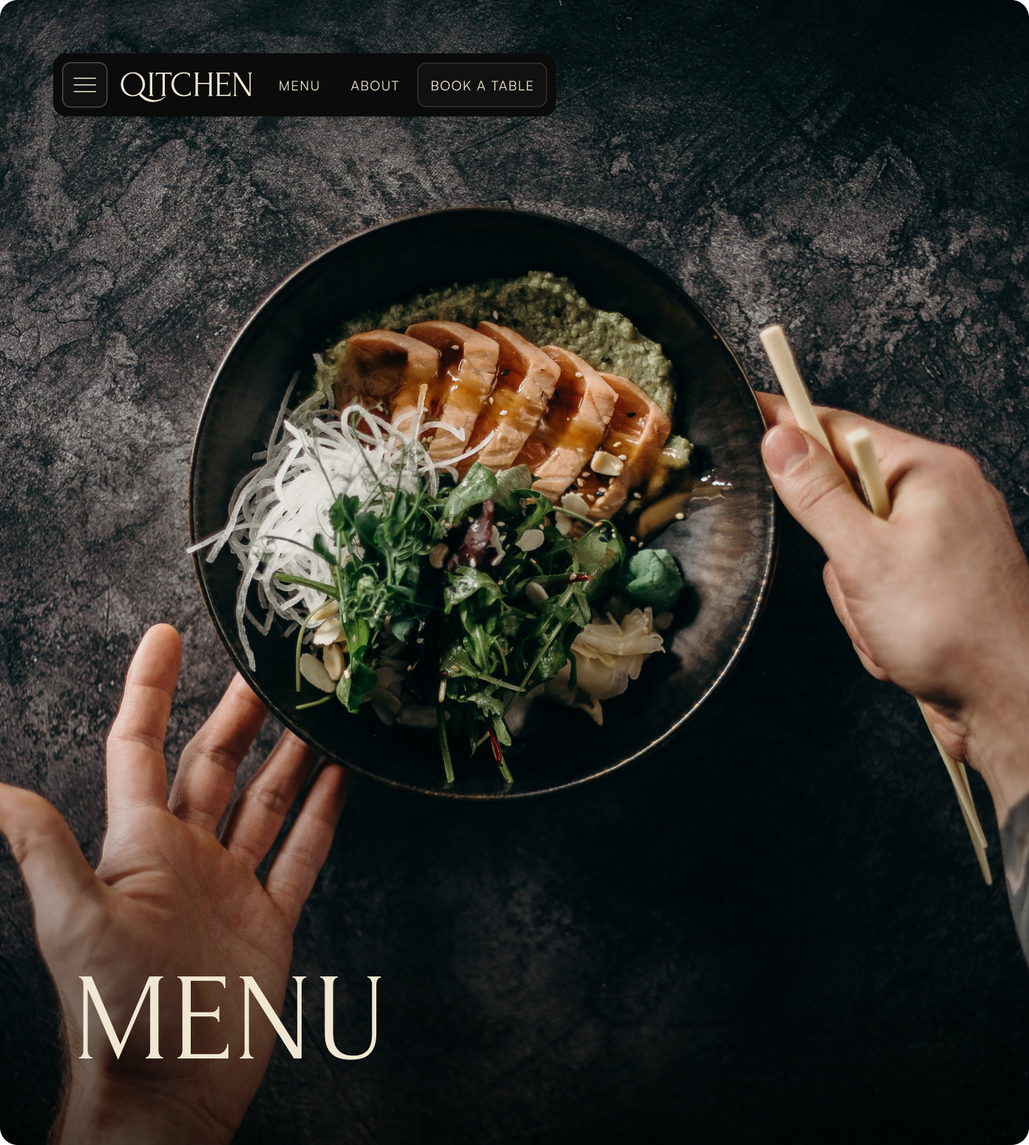
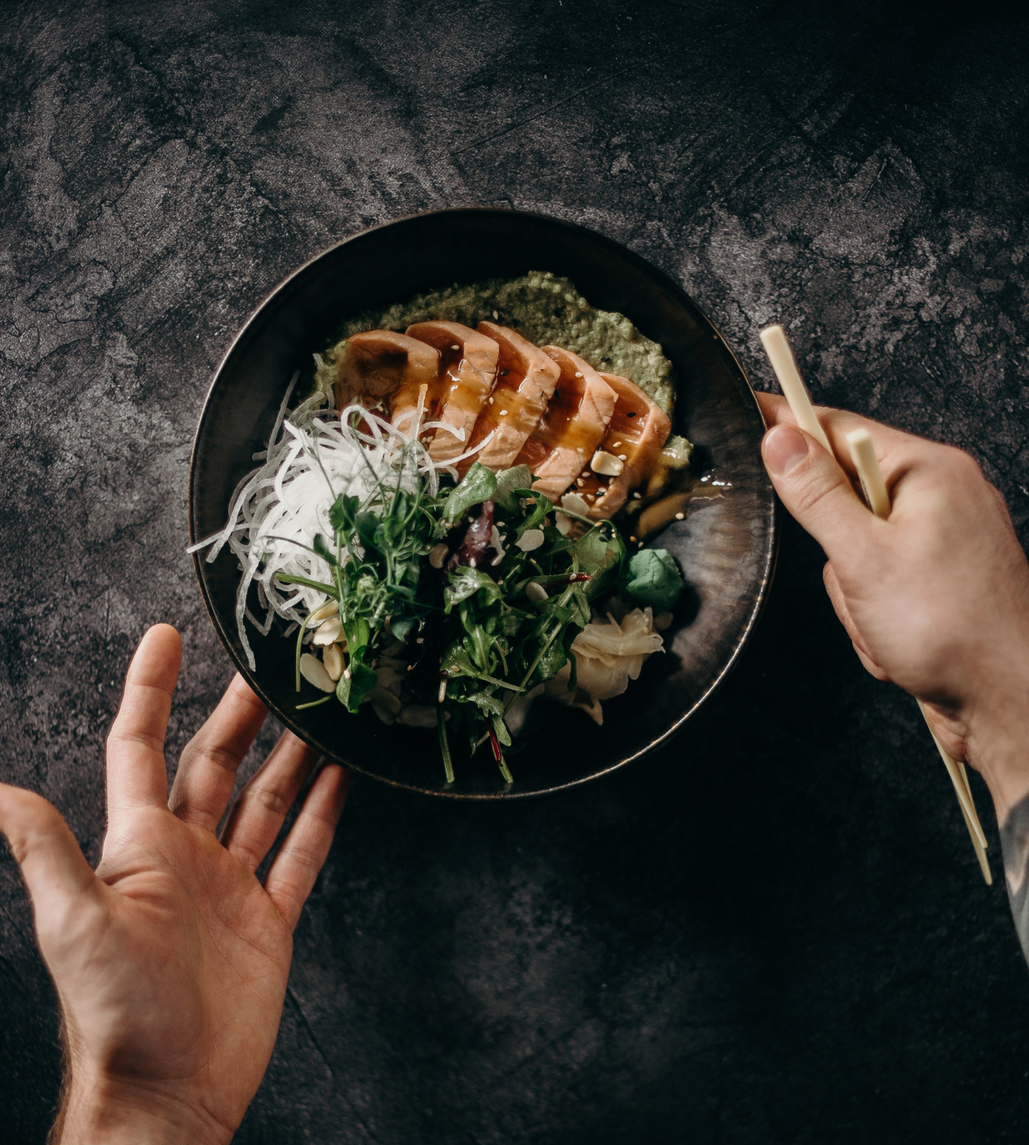
feat: add header layout and update styles for home and menu pages

diff --git a/css/main.css b/css/main.css
@@ -1,1 +1,1 @@
-*{padding:0;margin:0;box-sizing:inherit}html{font-size:62.5%;overflow-x:hidden !important}body{font-family:"Satoshi",sans-serif;box-sizing:border-box;background-color:#0a0b0a;color:rgba(245,242,234,.7);font-weight:400;line-height:1.6;margin:2.4rem;overflow-x:hidden !important}@media only screen and (max-width: 37.5em){body{margin:1.4rem}}@font-face{font-family:"Satoshi",sans-serif;src:url("/assets/fonts/satoshi-variable.ttf")}@font-face{font-family:"Forum",serif;src:url("/assets/fonts/forum-regular.ttf")}.heading-primary{font-family:"Forum",serif;font-size:14rem;line-height:1;letter-spacing:3px;color:#efefd2;text-transform:uppercase;font-weight:lighter;animation:moveinright all .4s;-webkit-animation:moveinright all .4s}@media only screen and (max-width: 75em){.heading-primary{font-size:8rem;position:absolute;bottom:10%}}@media only screen and (max-width: 56.25em){.heading-primary{font-size:6rem}}@media only screen and (max-width: 37.5em){.heading-primary{font-size:4rem}}@media only screen and (max-width: 31.25em){.heading-primary{font-size:3.5rem}}.body-heading{font-family:"Forum",serif;font-size:1.6rem;font-weight:100;line-height:1;color:#efefd2;text-transform:uppercase;font-weight:lighter}@media only screen and (max-width: 75em){.body-heading{font-size:1rem}}.btn{border:none;text-decoration:none;cursor:pointer}.btn:focus{outline:none}.btn-primary{font-size:1.2rem;text-transform:uppercase;color:#efefd2;padding:1.2rem;font-weight:300;background-color:#111;border:1px solid #32312e;border-radius:8px}@media only screen and (max-width: 37.5em){.btn-primary{font-size:1rem}}.btn-icon{height:4rem;width:4rem;border-radius:50%;background-color:#111;border:1px solid #32312e;display:flex;justify-content:center;align-items:center}@media only screen and (max-width: 31.25em){.btn-icon{height:2rem;width:2rem}}.btn-icon.sm{height:3.2rem;width:3.2rem}.btn-icon svg{font-size:1.8rem}@media only screen and (max-width: 31.25em){.btn-icon svg{font-size:1.4rem}}.navigation-dk{position:absolute;top:7rem;left:7rem;display:flex;justify-content:center;align-items:center;gap:1.2rem;padding:.8rem;border-radius:1.2rem;background-color:#0a0b0a;position:fixed;z-index:10}@media only screen and (max-width: 37.5em){.navigation-dk{display:none}}@media only screen and (max-width: 75em){.navigation-dk{top:5rem;left:5rem}}@media only screen and (max-width: 31.25em){.navigation-dk{top:4rem;left:4rem}}.navigation-dk .logo-wrapper{display:flex;gap:1rem;align-items:center}.navigation-dk .open{display:flex;padding:.7rem;font-size:2.2rem;border-radius:9px;align-items:center;border:1px solid rgba(239,231,210,.1490196078);-webkit-border-radius:9px;-moz-border-radius:9px;-ms-border-radius:9px;-o-border-radius:9px}.navigation-dk .logo{width:12rem}@media only screen and (max-width: 56.25em){.navigation-dk .logo{width:8rem}}.navigation-dk .logo img{width:100%;height:auto;-o-object-fit:contain;object-fit:contain}.navigation-dk .nav-links{display:flex;align-items:center;gap:.5rem}.navigation-dk .nav-links li{list-style:none}.navigation-dk .nav-links li .nav-item{text-decoration:none;font-size:1.2rem;text-transform:uppercase;color:#efefd2;padding:1.2rem;font-weight:300}@media only screen and (max-width: 37.5em){.navigation-dk .nav-links li .nav-item{font-size:1rem}}@media only screen and (max-width: 31.25em){.navigation-dk .nav-links li .nav-item{padding:.5rem}}.navigation-pb{display:none}@media only screen and (max-width: 37.5em){.navigation-pb{display:flex;position:relative;z-index:4000}}.navigation-pb .logo-wrapper{display:flex;gap:1rem;align-items:center;margin:1.2rem 0}@media only screen and (max-width: 37.5em){.navigation-pb .logo-wrapper{z-index:3000}.navigation-pb .logo-wrapper .navigation-checkbox:checked~.logo-wrapper{position:fixed}}.navigation-pb .logo-wrapper .logo{width:10rem}@media only screen and (max-width: 31.25em){.navigation-pb .logo-wrapper .logo{width:8rem}}.navigation-pb .logo-wrapper .logo img{width:100%;height:100%}.navigation-pb .navigation-checkbox{display:none}.navigation-pb .navigation-checkbox:checked~.navigation-main{opacity:1;width:100%;position:fixed;background-color:#0a0b0a;transition:all .2s;-webkit-transition:all .2s;-moz-transition:all .2s;-ms-transition:all .2s;-o-transition:all .2s}.navigation-pb .navigation-button{display:flex;align-items:center;padding:.7rem;border-radius:3px;border:1px solid rgba(239,231,210,.1490196078);-webkit-border-radius:3px;-moz-border-radius:3px;-ms-border-radius:3px;-o-border-radius:3px}.navigation-pb .navigation-button .close{display:none;font-size:3rem}.navigation-pb .navigation-button .open{display:flex;font-size:3rem}.navigation-pb .navigation-button .navigation-checkbox:checked~.logo-wrapper .navigation-button .open{display:none}.navigation-pb .navigation-button .navigation-checkbox:checked~.logo-wrapper .navigation-button .close{display:flex}.navigation-pb .navigation-main{position:absolute;top:0;left:0;height:100vh;z-index:1500;width:0;opacity:0;transition:all .4s,opacity .4s cubic-bezier(0.86, 0, 0.07, 1);-webkit-transition:all .4s,opacity .4s cubic-bezier(0.86, 0, 0.07, 1);-moz-transition:all .4s,opacity .4s cubic-bezier(0.86, 0, 0.07, 1);-ms-transition:all .4s,opacity .4s cubic-bezier(0.86, 0, 0.07, 1);-o-transition:all .4s,opacity .4s cubic-bezier(0.86, 0, 0.07, 1)}@media only screen and (max-width: 37.5em){.navigation-pb .navigation-main .nav-links{position:absolute;top:50%;left:50%;transform:translate(-50%, -50%);display:flex;flex-direction:column;gap:1rem;transition:all .4s,opacity .4s cubic-bezier(0.86, 0, 0.07, 1);-webkit-transition:all .4s,opacity .4s cubic-bezier(0.86, 0, 0.07, 1);-moz-transition:all .4s,opacity .4s cubic-bezier(0.86, 0, 0.07, 1);-ms-transition:all .4s,opacity .4s cubic-bezier(0.86, 0, 0.07, 1);-o-transition:all .4s,opacity .4s cubic-bezier(0.86, 0, 0.07, 1)}}.navigation-pb .navigation-main ul.nav-links li{display:none}@media only screen and (max-width: 37.5em){.navigation-pb .navigation-main ul.nav-links li{display:flex;flex-direction:column;text-align:center;list-style:none;text-decoration:none;gap:2rem}}.navigation-pb .nav-item:link,.navigation-pb .nav-item:visited{display:inline-block;font-family:"Satoshi",sans-serif;font-size:3rem;padding:.8rem;font-weight:300;letter-spacing:1px;color:inherit;font-weight:lighter;text-decoration:none;text-transform:uppercase;cursor:pointer;background-image:linear-gradient(120deg, transparent 0%, transparent 50%, #fff 50%);border-radius:4px;background-size:220%;transition:all .4s;-webkit-transition:all .4s;-moz-transition:all .4s;-ms-transition:all .4s;-o-transition:all .4s;-webkit-border-radius:4px;-moz-border-radius:4px;-ms-border-radius:4px;-o-border-radius:4px}.navigation-pb .nav-item:hover,.navigation-pb .nav-item:active{background-position:100%;color:#0a0b0a;transform:translateX(1rem);-webkit-transform:translateX(1rem);-moz-transform:translateX(1rem);-ms-transform:translateX(1rem);-o-transform:translateX(1rem)}.main{display:flex;gap:1.6rem;height:calc(100vh - 4.8rem)}@media only screen and (max-width: 75em){.main{display:flex;flex-direction:column;gap:1.6rem}}.main .header{background-image:url("/assets/images/hero.jpg");background-size:cover;background-position:center;border-radius:1.6rem;flex:4;display:flex;align-items:stretch;justify-content:flex-end;flex-direction:column;position:relative}.main .header .textbox{padding:8rem;background-image:linear-gradient(to bottom, rgba(0, 0, 0, 0), rgba(0, 0, 0, 0.6));border-radius:inherit}@media only screen and (max-width: 75em){.main .header .textbox{height:96vh;padding:3rem}}@media only screen and (max-width: 37.5em){.main .header .textbox{height:90vh}}@media only screen and (max-width: 31.25em){.main .header .textbox{height:85vh;padding:2rem}}@media only screen and (max-width: 25em){.main .header .textbox{height:80vh;padding:2rem}}@media only screen and (max-width: 21.87em){.main .header .textbox{height:80vh;padding:2rem}}.main .header .cta{position:absolute;right:0;border-top-left-radius:1.6rem;background-color:#0a0b0a}.main .header .cta>div{position:relative;display:flex;align-items:center;padding:2.5rem;gap:1rem}@media only screen and (max-width: 37.5em){.main .header .cta>div{padding:1.5rem}}@media only screen and (max-width: 37.5em){.main .header .cta>div{padding:1.5rem}}.main .header .cta .radius{position:absolute}.main .header .cta .radius.top{top:0;right:0;transform:translateY(-100%)}.main .header .cta .radius.bottom{bottom:0;left:0;transform:translateX(-100%)}.main .features{flex:1;display:flex;flex-direction:column;font-family:"Forum",serif;gap:1.6rem}@media only screen and (max-width: 56.25em){.main .features{height:100%}}.main .features .card{border-radius:2rem;overflow:hidden;position:relative;height:33.3333333333%}@media only screen and (max-width: 56.25em){.main .features .card{height:40rem;width:100%;-o-object-fit:cover;object-fit:cover}}.main .features .card .comp{width:100%}.main .features .card .comp img{height:100%;width:100%;display:block;z-index:-1}@media only screen and (max-width: 75em){.main .features .card .comp img{height:50rem;-o-object-fit:cover;object-fit:cover;width:100%}}@media only screen and (max-width: 37.5em){.main .features .card .comp img{height:40rem;-o-object-fit:cover;object-fit:cover;width:100%}}.main .features .card .tab{position:absolute;bottom:0;right:0;z-index:99}.main .features .card .tab .titleBtn{font-family:"Forum",serif;text-transform:uppercase;padding-top:1.2rem;padding-left:2.4rem;border-radius:2.4rem 0 0 0;background-color:#0a0b0a;display:flex;justify-content:space-between;align-items:center;gap:8px;line-height:1.3;letter-spacing:1px;color:#efefd2;font-size:1.6rem;font-weight:100;font-weight:lighter;cursor:pointer}@media only screen and (max-width: 1200px){.main .main{height:calc(100vh - 4.8rem)}}.main{display:flex;gap:1.6rem;height:calc(100vh - 4.8rem)}@media only screen and (max-width: 75em){.main{display:flex;flex-direction:column;gap:1.6rem}}.main .menu_header{background-image:url("/assets/images/hero-2.jpg");background-size:cover;background-position:center;border-radius:1.6rem;flex:1;display:flex;align-items:stretch;justify-content:flex-end;flex-direction:column;position:relative}.main .menu_header .textbox{padding:8rem;background-image:linear-gradient(to bottom, rgba(0, 0, 0, 0), rgba(0, 0, 0, 0.6));border-radius:inherit}
+*{padding:0;margin:0;box-sizing:inherit}html{font-size:62.5%;overflow-x:hidden !important}body{font-family:"Satoshi",sans-serif;box-sizing:border-box;background-color:#0a0b0a;color:rgba(245,242,234,.7);font-weight:400;line-height:1.6;margin:2.4rem;overflow-x:hidden !important}@media only screen and (max-width: 37.5em){body{margin:1.4rem}}@font-face{font-family:"Satoshi",sans-serif;src:url("/assets/fonts/satoshi-variable.ttf")}@font-face{font-family:"Forum",serif;src:url("/assets/fonts/forum-regular.ttf")}.heading-primary{font-family:"Forum",serif;font-size:14rem;line-height:1;letter-spacing:3px;color:#efefd2;text-transform:uppercase;font-weight:lighter}@media only screen and (max-width: 75em){.heading-primary{font-size:8rem;position:absolute;bottom:10%}}@media only screen and (max-width: 56.25em){.heading-primary{font-size:6rem}}@media only screen and (max-width: 37.5em){.heading-primary{font-size:4rem}}@media only screen and (max-width: 31.25em){.heading-primary{font-size:3.5rem}}.heading-secondary{line-height:1;letter-spacing:3px;color:#efefd2;text-transform:uppercase;font-weight:lighter;font-family:"Forum",serif}.small{font-size:3.2rem}.body-heading{font-family:"Forum",serif;font-size:1.6rem;font-weight:100;line-height:1;color:#efefd2;text-transform:uppercase;font-weight:lighter}@media only screen and (max-width: 75em){.body-heading{font-size:1rem}}.btn{border:none;text-decoration:none;cursor:pointer}.btn:focus{outline:none}.btn-primary{font-size:1.2rem;text-transform:uppercase;color:#efefd2;padding:1.2rem;font-weight:300;background-color:#111;border:1px solid #32312e;border-radius:8px}@media only screen and (max-width: 37.5em){.btn-primary{font-size:1rem}}.btn-icon{height:4rem;width:4rem;border-radius:50%;background-color:#111;border:1px solid #32312e;display:flex;justify-content:center;align-items:center}@media only screen and (max-width: 31.25em){.btn-icon{height:2rem;width:2rem}}.btn-icon.sm{height:3.2rem;width:3.2rem}.btn-icon svg{font-size:1.8rem}@media only screen and (max-width: 31.25em){.btn-icon svg{font-size:1.4rem}}.header{background-size:cover;background-position:center;border-radius:1.6rem;flex:3;display:flex;align-items:stretch;justify-content:flex-end;flex-direction:column;position:relative}.header .textbox{padding:8rem;background-image:linear-gradient(to bottom, rgba(0, 0, 0, 0), rgba(0, 0, 0, 0.6));border-radius:inherit}@media only screen and (max-width: 75em){.header .textbox{height:96vh;padding:3rem}}@media only screen and (max-width: 37.5em){.header .textbox{height:90vh}}@media only screen and (max-width: 31.25em){.header .textbox{height:85vh;padding:2rem}}@media only screen and (max-width: 25em){.header .textbox{height:80vh;padding:2rem}}@media only screen and (max-width: 21.87em){.header .textbox{height:80vh;padding:2rem}}.header .cta{position:absolute;right:0;border-top-left-radius:1.6rem;background-color:#0a0b0a}.header .cta>div{position:relative;display:flex;align-items:center;padding:2.5rem;gap:1rem}@media only screen and (max-width: 37.5em){.header .cta>div{padding:1.5rem}}@media only screen and (max-width: 37.5em){.header .cta>div{padding:1.5rem}}.header .cta .radius{position:absolute}.header .cta .radius.top{top:0;right:0;transform:translateY(-100%)}.header .cta .radius.bottom{bottom:0;left:0;transform:translateX(-100%)}.navigation-dk{position:absolute;top:7rem;left:7rem;display:flex;justify-content:center;align-items:center;gap:1.2rem;padding:.8rem;border-radius:1.2rem;background-color:#0a0b0a;position:fixed;z-index:10}@media only screen and (max-width: 37.5em){.navigation-dk{display:none}}@media only screen and (max-width: 75em){.navigation-dk{top:5rem;left:5rem}}@media only screen and (max-width: 31.25em){.navigation-dk{top:4rem;left:4rem}}.navigation-dk .logo-wrapper{display:flex;gap:1rem;align-items:center}.navigation-dk .open{display:flex;padding:.7rem;font-size:2.2rem;border-radius:9px;align-items:center;border:1px solid rgba(239,231,210,.1490196078);-webkit-border-radius:9px;-moz-border-radius:9px;-ms-border-radius:9px;-o-border-radius:9px}.navigation-dk .logo{width:12rem}@media only screen and (max-width: 56.25em){.navigation-dk .logo{width:8rem}}.navigation-dk .logo img{width:100%;height:auto;-o-object-fit:contain;object-fit:contain}.navigation-dk .nav-links{display:flex;align-items:center;gap:.5rem}.navigation-dk .nav-links li{list-style:none}.navigation-dk .nav-links li .nav-item{text-decoration:none;font-size:1.2rem;text-transform:uppercase;color:#efefd2;padding:1.2rem;font-weight:300}@media only screen and (max-width: 37.5em){.navigation-dk .nav-links li .nav-item{font-size:1rem}}@media only screen and (max-width: 31.25em){.navigation-dk .nav-links li .nav-item{padding:.5rem}}.navigation-pb{display:none}@media only screen and (max-width: 37.5em){.navigation-pb{display:flex;position:relative;z-index:4000}}.navigation-pb .logo-wrapper{display:flex;gap:1rem;align-items:center;margin:1.2rem 0}@media only screen and (max-width: 37.5em){.navigation-pb .logo-wrapper{z-index:3000}.navigation-pb .logo-wrapper .navigation-checkbox:checked~.logo-wrapper{position:fixed}}.navigation-pb .logo-wrapper .logo{width:10rem}@media only screen and (max-width: 31.25em){.navigation-pb .logo-wrapper .logo{width:8rem}}.navigation-pb .logo-wrapper .logo img{width:100%;height:100%}.navigation-pb .navigation-checkbox{display:none}.navigation-pb .navigation-checkbox:checked~.navigation-main{opacity:1;width:100%;position:fixed;background-color:#0a0b0a;transition:all .2s;-webkit-transition:all .2s;-moz-transition:all .2s;-ms-transition:all .2s;-o-transition:all .2s}.navigation-pb .navigation-button{display:flex;align-items:center;padding:.7rem;border-radius:3px;border:1px solid rgba(239,231,210,.1490196078);-webkit-border-radius:3px;-moz-border-radius:3px;-ms-border-radius:3px;-o-border-radius:3px}.navigation-pb .navigation-button .close{display:none;font-size:3rem}.navigation-pb .navigation-button .open{display:flex;font-size:3rem}.navigation-pb .navigation-button .navigation-checkbox:checked~.logo-wrapper .navigation-button .open{display:none}.navigation-pb .navigation-button .navigation-checkbox:checked~.logo-wrapper .navigation-button .close{display:flex}.navigation-pb .navigation-main{position:absolute;top:0;left:0;height:100vh;z-index:1500;width:0;opacity:0;transition:all .4s,opacity .4s cubic-bezier(0.86, 0, 0.07, 1);-webkit-transition:all .4s,opacity .4s cubic-bezier(0.86, 0, 0.07, 1);-moz-transition:all .4s,opacity .4s cubic-bezier(0.86, 0, 0.07, 1);-ms-transition:all .4s,opacity .4s cubic-bezier(0.86, 0, 0.07, 1);-o-transition:all .4s,opacity .4s cubic-bezier(0.86, 0, 0.07, 1)}@media only screen and (max-width: 37.5em){.navigation-pb .navigation-main .nav-links{position:absolute;top:50%;left:50%;transform:translate(-50%, -50%);display:flex;flex-direction:column;gap:1rem;transition:all .4s,opacity .4s cubic-bezier(0.86, 0, 0.07, 1);-webkit-transition:all .4s,opacity .4s cubic-bezier(0.86, 0, 0.07, 1);-moz-transition:all .4s,opacity .4s cubic-bezier(0.86, 0, 0.07, 1);-ms-transition:all .4s,opacity .4s cubic-bezier(0.86, 0, 0.07, 1);-o-transition:all .4s,opacity .4s cubic-bezier(0.86, 0, 0.07, 1)}}.navigation-pb .navigation-main ul.nav-links li{display:none}@media only screen and (max-width: 37.5em){.navigation-pb .navigation-main ul.nav-links li{display:flex;flex-direction:column;text-align:center;list-style:none;text-decoration:none;gap:2rem}}.navigation-pb .nav-item:link,.navigation-pb .nav-item:visited{display:inline-block;font-family:"Satoshi",sans-serif;font-size:3rem;padding:.8rem;font-weight:300;letter-spacing:1px;color:inherit;font-weight:lighter;text-decoration:none;text-transform:uppercase;cursor:pointer;background-image:linear-gradient(120deg, transparent 0%, transparent 50%, #fff 50%);border-radius:4px;background-size:220%;transition:all .4s;-webkit-transition:all .4s;-moz-transition:all .4s;-ms-transition:all .4s;-o-transition:all .4s;-webkit-border-radius:4px;-moz-border-radius:4px;-ms-border-radius:4px;-o-border-radius:4px}.navigation-pb .nav-item:hover,.navigation-pb .nav-item:active{background-position:100%;color:#0a0b0a;transform:translateX(1rem);-webkit-transform:translateX(1rem);-moz-transform:translateX(1rem);-ms-transform:translateX(1rem);-o-transform:translateX(1rem)}.main{display:flex;gap:1.6rem;height:calc(100vh - 4.8rem)}.main .header.home{background-image:url("/assets/images/hero.jpg")}@media only screen and (max-width: 75em){.main{display:flex;flex-direction:column;gap:1.6rem}}.main .features{flex:1;display:flex;flex-direction:column;font-family:"Forum",serif;gap:1.6rem}@media only screen and (max-width: 56.25em){.main .features{height:100%}}.main .features .card{border-radius:2rem;overflow:hidden;position:relative;height:33.3333333333%}@media only screen and (max-width: 56.25em){.main .features .card{height:40rem;width:100%;-o-object-fit:cover;object-fit:cover}}.main .features .card .comp{width:100%}.main .features .card .comp img{height:100%;width:100%;display:block;z-index:-1}@media only screen and (max-width: 75em){.main .features .card .comp img{height:50rem;-o-object-fit:cover;object-fit:cover;width:100%}}@media only screen and (max-width: 37.5em){.main .features .card .comp img{height:40rem;-o-object-fit:cover;object-fit:cover;width:100%}}.main .features .card .tab{position:absolute;bottom:0;right:0;z-index:99}.main .features .card .tab .titleBtn{font-family:"Forum",serif;text-transform:uppercase;padding-top:1.2rem;padding-left:2.4rem;border-radius:2.4rem 0 0 0;background-color:#0a0b0a;display:flex;justify-content:space-between;align-items:center;gap:8px;line-height:1.3;letter-spacing:1px;color:#efefd2;font-size:1.6rem;font-weight:100;font-weight:lighter;cursor:pointer}@media only screen and (max-width: 1200px){.main .main{height:calc(100vh - 4.8rem)}}.main{display:flex;gap:1.6rem}.main .header.menu{height:calc(100vh - 4.8rem);background-image:url("/assets/images/hero-2.jpg");flex:1.2}@media only screen and (max-width: 75em){.main{display:flex;flex-direction:column;gap:1.6rem}}.main .menu{flex:1}.main .menu .menu_list ul.menu_btns{display:flex;align-items:center;justify-content:center;margin:2rem 0;gap:.5rem}.main .menu .menu_list ul.menu_btns a{text-decoration:none}.main .menu .menu_list .menu_list-header{display:flex;align-items:center;justify-content:center;margin:6rem 0 3rem 0}

diff --git a/sass/pages/_menu.scss b/sass/pages/_menu.scss
@@ -3,7 +3,12 @@
 .main {
   display: flex;
   gap: 1.6rem;
-  height: calc(100vh - 4.8rem);
+
+  .header.menu {
+    height: calc(100vh - 4.8rem);
+    background-image: url("/assets/images/hero-2.jpg");
+    flex: 1.2;
+  }
 
   @include respond(tab-land) {
     display: -webkit-box;
@@ -13,28 +18,52 @@
     gap: 1.6rem;
   }
 
-  .menu_header {
-    background-image: url("/assets/images/hero-2.jpg");
-    background-size: cover;
-    background-position: center;
-    // background-repeat: no-repeat;
-    border-radius: $border-radius;
+  // header.menu_header {
+  //   background-image: url("/assets/images/hero-2.jpg");
+  //   background-size: cover;
+  //   background-position: center;
+  //   // background-repeat: no-repeat;
+  //   border-radius: $border-radius;
 
+  //   flex: 1;
+  //   display: flex;
+  //   align-items: stretch;
+  //   justify-content: flex-end;
+  //   flex-direction: column;
+  //   position: relative;
+
+  //   //  .textbox {
+  //   //   padding: 8rem;
+  //   //   background-image: linear-gradient(
+  //   //     to bottom,
+  //   //     rgba(0, 0, 0, 0),
+  //   //     rgba(0, 0, 0, 0.6)
+  //   //   );
+  //   //   border-radius: inherit;
+  //   // }
+  // }
+  .menu {
     flex: 1;
-    display: flex;
-    align-items: stretch;
-    justify-content: flex-end;
-    flex-direction: column;
-    position: relative;
 
-    .textbox {
-      padding: 8rem;
-      background-image: linear-gradient(
-        to bottom,
-        rgba(0, 0, 0, 0),
-        rgba(0, 0, 0, 0.6)
-      );
-      border-radius: inherit;
+    .menu_list {
+      ul.menu_btns {
+        display: flex;
+        align-items: center;
+        justify-content: center;
+        margin: 2rem 0;
+        gap: 0.5rem;
+      }
+
+      ul.menu_btns a {
+        text-decoration: none;
+      }
+
+      .menu_list-header {
+        display: flex;
+        align-items: center;
+        justify-content: center;
+        margin: 6rem 0 3rem 0;
+      }
     }
   }
 }

diff --git a/menu.html b/menu.html
@@ -19,6 +19,7 @@
           </figure>
         </a>
       </div>
+
       <ul class="nav-links">
         <li>
           <a href="menu.html" class="nav-item">Menu</a>
@@ -70,23 +71,41 @@
       </div>
     </nav>
 
-    <main>
+    <!-- <main>
       <header class="menu_header">
         <div class="menu_header-container">
-            <div class="textbox">
-                <h1 class="heading-primary">MENU</h1>
-              </div>
-        </div>
-        </div>
-
-  
-
-
-      
-
-        
+          <div class="textbox">
+            <h1 class="heading-primary">MENU</h1>
+          </div>
         </div>
       </header>
+
+      <aside class="aside-container">
+       
+      </aside>
+    </main> -->
+
+    <main class="main">
+      <header class="header menu">
+        <div class="textbox">
+          <h1 class="heading-primary">Menu</h1>
+        </div>
+      </header>
+      <aside class="menu">
+        <div class="menu_list">
+          <ul class="menu_btns">
+            <a href="#" class="btn-primary">maki</a
+            ><a href="#" class="btn-primary">uramaki</a
+            ><a href="#" class="btn-primary">special rolls</a>
+          </ul>
+
+          <div class="menu_list-header">
+            <img src="./assets/icons/spoon-left.svg" alt="spoon-left" />
+            <h2 class="heading-secondary small">maki</h2>
+            <img src="./assets/icons/spoon-right.svg" alt="spoon-right" />
+          </div>
+        </div>
+      </aside>
     </main>
     <script src="https://unpkg.com/aos@2.3.1/dist/aos.js"></script>
     <script>

diff --git a/sass/pages/_home.scss b/sass/pages/_home.scss
@@ -3,64 +3,16 @@
   gap: 1.6rem;
   height: calc(100vh - 4.8rem);
 
+  .header.home {
+    background-image: url("/assets/images/hero.jpg");
+  }
+
   @include respond(tab-land) {
     display: -webkit-box;
     display: -ms-flexbox;
     display: flex;
     flex-direction: column;
     gap: 1.6rem;
-  }
-
-  .header {
-    background-image: url("/assets/images/hero.jpg");
-    background-size: cover;
-    background-position: center;
-    // background-repeat: no-repeat;
-    border-radius: $border-radius;
-
-    flex: 4;
-    display: flex;
-    align-items: stretch;
-    justify-content: flex-end;
-    flex-direction: column;
-    position: relative;
-
-    .textbox {
-      padding: 8rem;
-      background-image: linear-gradient(
-        to bottom,
-        rgba(0, 0, 0, 0),
-        rgba(0, 0, 0, 0.6)
-      );
-      border-radius: inherit;
-
-      @include respond(tab-land) {
-        height: 96vh;
-        padding: 3rem;
-      }
-
-      @include respond(phone) {
-        height: 90vh;
-      }
-
-      @include respond(phone-medium) {
-        height: 85vh;
-        padding: 2rem;
-      }
-
-      @include respond(phone-small) {
-        height: 80vh;
-        padding: 2rem;
-      }
-      @include respond(phone-very-small) {
-        height: 80vh;
-        padding: 2rem;
-      }
-    }
-
-    .cta {
-      @include cta;
-    }
   }
 
   .features {

diff --git a/index.html b/index.html
@@ -74,7 +74,7 @@
     </nav>
 
     <main class="main">
-      <header class="header">
+      <header class="header home">
         <div class="textbox">
           <h1 class="heading-primary">
             Sushi <br />
@@ -137,7 +137,7 @@
             <img src="/assets/images/menu-feature.png" alt="menu-img" />
           </figure>
           <div class="tab">
-            <p class="titleBtn" data-aos="fade-right">
+            <p class="titleBtn">
               <span>menu</span>
               <img src="/assets/images/Badge.svg" alt="" />
             </p>
@@ -149,7 +149,7 @@
             <img src="/assets/images/reservation.png" alt="reservation-img" />
           </figure>
           <div class="tab">
-            <p class="titleBtn" data-aos="fade-right">
+            <p class="titleBtn">
               <span>reservation</span>
               <img src="/assets/images/Badge.svg" alt="" />
             </p>
@@ -161,7 +161,7 @@
             <img src="/assets/images/reaturant.png" alt="reaturant-img" />
           </figure>
           <div class="tab">
-            <p class="titleBtn" data-aos="fade-right">
+            <p class="titleBtn">
               <span>our restaurant</span>
               <img src="/assets/images/Badge.svg" alt="" />
             </p>

diff --git a/sass/layouts/_header.scss b/sass/layouts/_header.scss
@@ -1,0 +1,50 @@
+.header {
+  background-size: cover;
+  background-position: center;
+  // background-repeat: no-repeat;
+  border-radius: $border-radius;
+
+  flex: 3;
+  display: flex;
+  align-items: stretch;
+  justify-content: flex-end;
+  flex-direction: column;
+  position: relative;
+
+  .textbox {
+    padding: 8rem;
+    background-image: linear-gradient(
+      to bottom,
+      rgba(0, 0, 0, 0),
+      rgba(0, 0, 0, 0.6)
+    );
+    border-radius: inherit;
+
+    @include respond(tab-land) {
+      height: 96vh;
+      padding: 3rem;
+    }
+
+    @include respond(phone) {
+      height: 90vh;
+    }
+
+    @include respond(phone-medium) {
+      height: 85vh;
+      padding: 2rem;
+    }
+
+    @include respond(phone-small) {
+      height: 80vh;
+      padding: 2rem;
+    }
+    @include respond(phone-very-small) {
+      height: 80vh;
+      padding: 2rem;
+    }
+  }
+
+  .cta {
+    @include cta;
+  }
+}

diff --git a/sass/base/_typography.scss b/sass/base/_typography.scss
@@ -16,8 +16,6 @@
   color: $secondary-color;
   text-transform: uppercase;
   font-weight: lighter;
-  animation: moveinright all 0.4s;
-  -webkit-animation: moveinright all 0.4s;
   @include respond(tab-land) {
     font-size: 8rem;
     position: absolute;
@@ -35,6 +33,19 @@
   @include respond(phone-medium) {
     font-size: 3.5rem;
   }
+}
+
+.heading-secondary {
+  line-height: 1;
+  letter-spacing: 3px;
+  color: $secondary-color;
+  text-transform: uppercase;
+  font-weight: lighter;
+  font-family: $secondary-font;
+}
+
+.small {
+  font-size: 3.2rem;
 }
 
 .body-heading {

diff --git a/sass/main.scss b/sass/main.scss
@@ -6,6 +6,7 @@
 
 @import "./components/button";
 
+@import "./layouts/header";
 @import "./layouts/footer";
 @import "./layouts/navigation";
 
